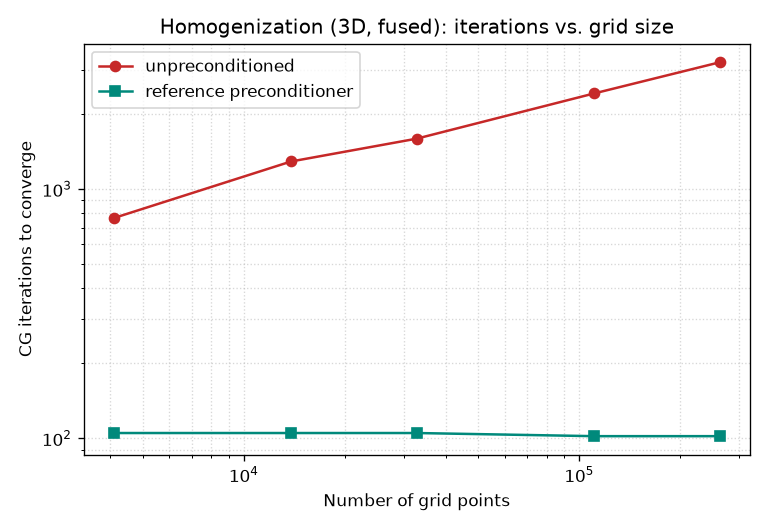
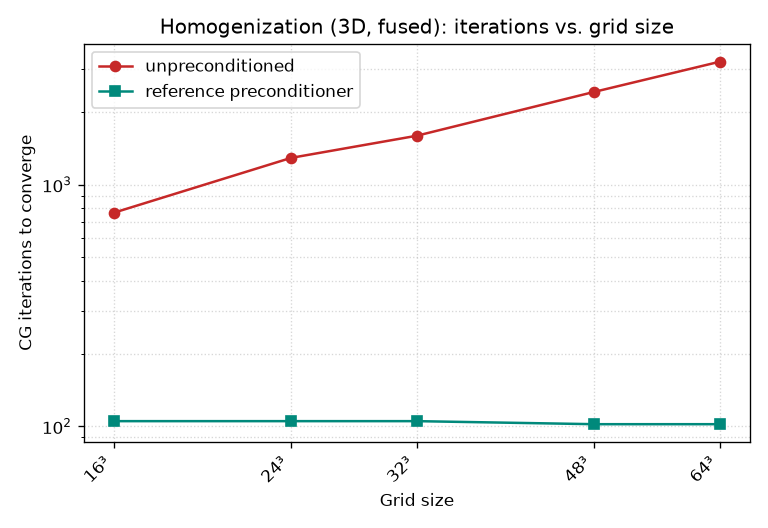
DOC: Updated benchmarks

diff --git a/docs/benchmark_homogenization_preconditioner.md b/docs/benchmark_homogenization_preconditioner.md
@@ -8,7 +8,7 @@ matvec kernel** and are run **to convergence** (relative tolerance `1e-06`).
 !!! info "Test machine & code version"
     - **CPU:** AMD Instinct MI300A Accelerator (192 logical cores)
     - **GPU:** 4x AMD Instinct MI300A
-    - **muGrid:** `0.109.0-56-gf1774dbd-dirty` — run 2026-06-28T01:19:13
+    - **muGrid:** `0.110.0-dirty` — run 2026-06-29T12:13:40
 
 Run configuration: 3D, single spherical inclusion, fused stiffness kernel,
 6 load cases (iterations summed over all cases).
@@ -29,7 +29,7 @@ single CPU core.
 
 (last row: unpreconditioned ÷ reference **wall time** on one CPU core)
 
-![Iterations vs. number of grid points](benchmark_homogenization_preconditioner_iters.png)
+![Iterations vs. grid size](benchmark_homogenization_preconditioner_iters.png)
 
 ## Reference solve: device & MPI scaling
 
@@ -46,17 +46,17 @@ Each configuration is swept to the largest grid that still fits in memory: the
 first size that runs **out of memory** is recorded as `OOM` in the table and
 dropped from the plot, and larger sizes for that configuration are not attempted.
 
-| Configuration | 16³ (4k) | 24³ (14k) | 32³ (33k) | 48³ (111k) | 64³ (262k) | 96³ (885k) | 128³ (2.1M) | 192³ (7.1M) | 256³ (16.8M) | 384³ (56.6M) | 512³ (134.2M) |
-|---|---|---|---|---|---|---|---|---|---|---|---|
-| CPU (1 core) | 0.283 | 0.931 | 2.24 | 9.46 | 19.9 | 75.2 | 206 | — | — | — | — |
-| CPU (92 cores, MPI) | — | — | — | 0.228 | 0.356 | 1.87 | 3.96 | 14.4 | 27.2 | 104 | 207 |
-| GPU (1 device) | 0.708 | 0.645 | 0.577 | 0.657 | 0.74 | 1.39 | 2.58 | 8.09 | OOM | — | — |
-| GPU (4 devices, MPI) | — | 3.19 | — | 1.23 | — | 2.1 | 1.82 | 6.1 | 11.9 | OOM | — |
+| Configuration | 16³ (4k) | 24³ (14k) | 32³ (33k) | 48³ (111k) | 64³ (262k) | 96³ (885k) | 128³ (2.1M) | 192³ (7.1M) | 256³ (16.8M) | 384³ (56.6M) | 512³ (134.2M) | 768³ (453.0M) |
+|---|---|---|---|---|---|---|---|---|---|---|---|---|
+| CPU (1 core) | 0.279 | 0.88 | 2.04 | 7.16 | 17.4 | 60.9 | 153 | — | — | — | — | — |
+| CPU (92 cores, MPI) | — | — | — | 0.22 | 0.345 | 1.69 | 3.5 | 12.8 | 22.8 | 86.2 | 195 | — |
+| GPU (1 device) | 0.605 | 0.722 | 0.728 | 0.664 | 0.65 | 1.09 | 1.99 | 5.89 | 13.2 | OOM | — | — |
+| GPU (4 devices, MPI) | — | 3.07 | — | 1.33 | — | 2.1 | 1.73 | 5.12 | 10.2 | 36.6 | 75.7 | OOM |
 
 (values are **solve time in seconds**, run to convergence; `OOM` = ran out of
 memory)
 
-![Reference solve time vs. number of grid points](benchmark_homogenization_preconditioner_time.png)
+![Reference solve time vs. grid size](benchmark_homogenization_preconditioner_time.png)
 
 The preconditioner parallelises cleanly: it is applied in Fourier space by the
 FFT engine, which owns its MPI decomposition, and the per-mode block solve is

diff --git a/docs/benchmark_homogenization.md b/docs/benchmark_homogenization.md
@@ -7,7 +7,7 @@ grid sizes. Lower is better.
 !!! info "Test machine & code version"
     - **CPU:** AMD Instinct MI300A Accelerator (192 logical cores)
     - **GPU:** 4x AMD Instinct MI300A
-    - **muGrid:** `0.109.0-65-gf3ef7b08` — run 2026-06-28T22:18:45
+    - **muGrid:** `0.110.0-9-g3cf17e02-dirty` — run 2026-06-30T15:55:33
 
 Run configuration: 3D single spherical inclusion, fused stiffness kernel,
 6 load cases, fixed `100` CG iterations per load case — i.e. a **fixed work
@@ -31,12 +31,12 @@ Each configuration is swept to the largest grid that still fits in memory: the
 first size that runs **out of memory** is recorded as `OOM` in the table and
 dropped from the plot, and larger sizes for that configuration are not attempted.
 
-| Configuration | 16³ (4k) | 24³ (14k) | 32³ (33k) | 48³ (111k) | 64³ (262k) | 96³ (885k) | 128³ (2.1M) | 192³ (7.1M) | 256³ (16.8M) | 384³ (56.6M) | 512³ (134.2M) | 768³ (453.0M) |
-|---|---|---|---|---|---|---|---|---|---|---|---|---|
-| CPU (1 core) | 1.12 | 3.74 | 9.13 | 30.3 | 72.6 | 244 | 578 | — | — | — | — | — |
-| CPU (92 cores, MPI) | 0.129 | 0.164 | 0.239 | 0.588 | 1.02 | 3.49 | 7.77 | 26.5 | 61.4 | 196 | 474 | 1.58e+03 |
-| GPU (1 device) | 0.235 | 0.223 | 0.22 | 0.277 | 0.373 | 0.87 | 1.89 | 6.43 | 15.5 | 58.2 | OOM | — |
-| GPU (4 devices, MPI) | 0.48 | 0.34 | 0.499 | 0.526 | 0.584 | 0.728 | 1.02 | 2.2 | 4.64 | 15.8 | 35.3 | OOM |
+| Configuration | 16³ (4k) | 24³ (14k) | 32³ (33k) | 48³ (111k) | 64³ (262k) | 96³ (885k) | 128³ (2.1M) | 192³ (7.1M) | 256³ (16.8M) | 384³ (56.6M) | 512³ (134.2M) | 768³ (453.0M) | 1024³ (1073.7M) | 1536³ (3623.9M) |
+|---|---|---|---|---|---|---|---|---|---|---|---|---|---|---|
+| CPU (1 core) | 1.07 | 3.67 | 8.63 | 29.1 | 69.4 | 234 | 556 | — | — | — | — | — | — | — |
+| CPU (92 cores, MPI) | 0.123 | 0.158 | 0.225 | 0.568 | 0.956 | 3.33 | 7.14 | 24.2 | 56.8 | 194 | 441 | 1.43e+03 | 3.45e+03 | — |
+| GPU (1 device) | 0.806 | 3.17 | 20.4 | 125 | 399 | 415 | 418 | 397 | 357 | 346 | 309 | OOM | — | — |
+| GPU (4 devices, MPI) | 0.735 | 1.38 | 3.45 | 11.9 | 78.2 | 384 | 413 | 460 | 437 | 445 | 411 | 395 | 398 | OOM |
 
 (values are **solve time in seconds**; `OOM` = the run ran out of memory)
 